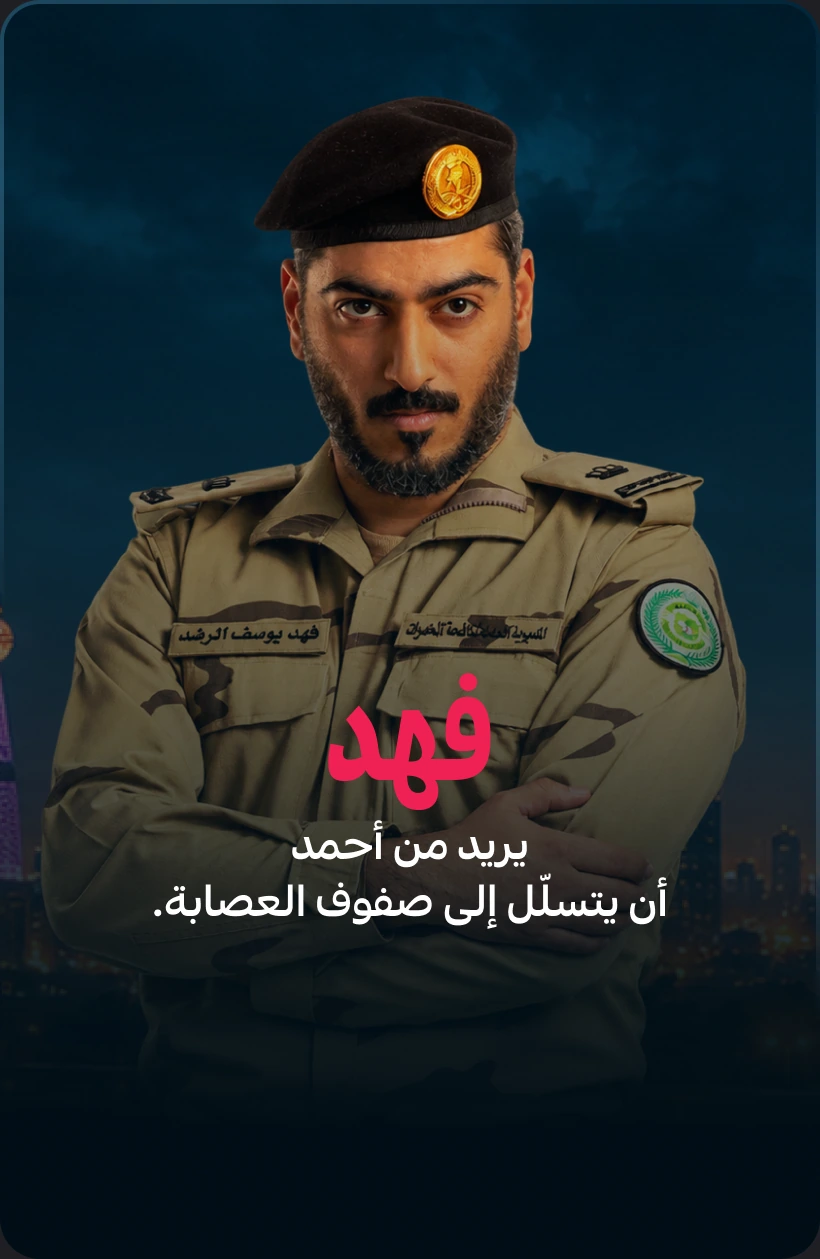
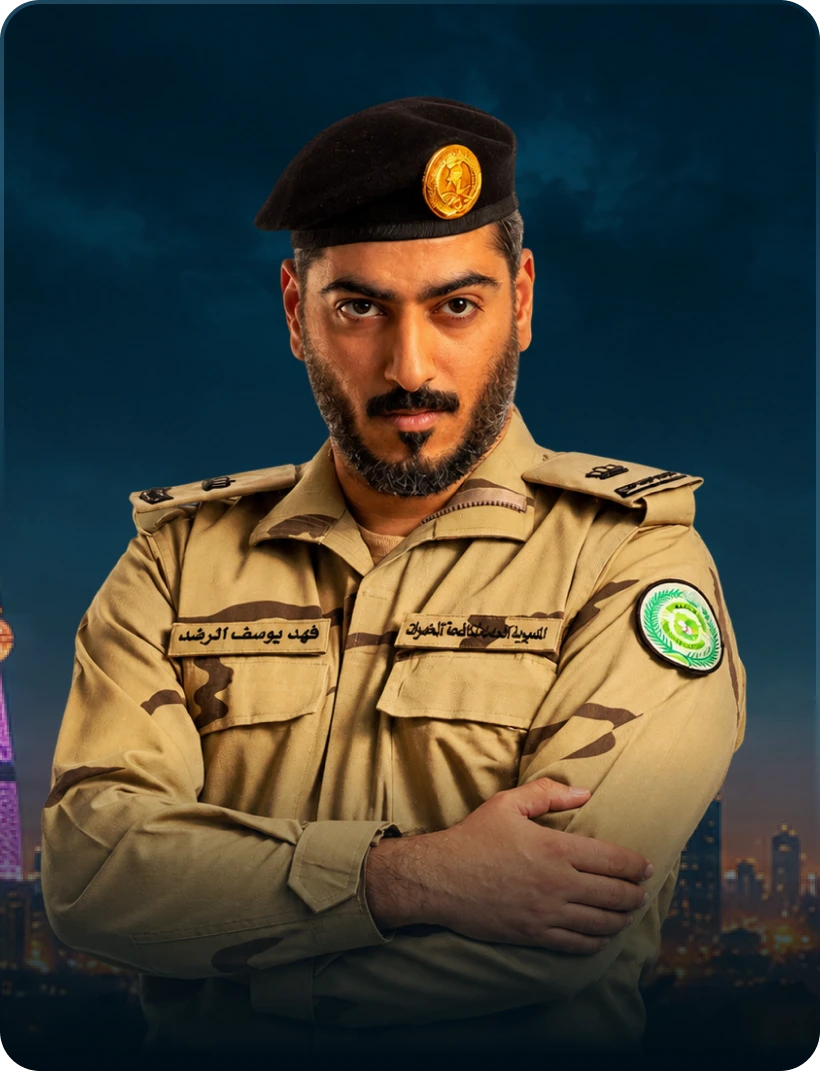
Replace Winback cards with the shorter Figma set

diff --git a/Winback Landing/README.md b/Winback Landing/README.md
@@ -1,8 +1,8 @@
 # Winback Landing — SPARKCREATIVE-3681
 
-Media for the Yango Play Winback landing in English and Arabic.
+Media for the Habetein winback landing in English and Arabic.
 
-- `images/hero-en-desktop.webp` and `images/hero-ar-desktop.webp` are the desktop Habetein compositions. `images/hero-mobile.webp` is the clean portrait composition shared by both languages.
-- `images/story-en-01.webp` through `story-en-08.webp` and `images/story-ar-01.webp` through `story-ar-08.webp` are the approved Figma storyboard cards, in display order.
-- `images/music-mobile.png` is the mobile playlist artwork. Catalog artwork and payment marks retain their original files.
-- `video/habetein-trailer.mp4` is the landscape trailer. `video/habetein-portrait-720x1560.mp4` is the single-image portrait edit with protected title cards.
+- `hero-en-figma-4167.webp` is the full English desktop poster and `hero-en-layout.webp` is its tablet crop. `hero-ar-desktop.webp` is the Arabic desktop poster. Both languages share `hero-mobile.webp`.
+- `story-en-01.webp` through `story-en-07.webp` and `story-ar-01.webp` through `story-ar-07.webp` are the 820 × 1071 Figma cards in display order. The landing adds the darker hover state and captions in CSS.
+- `music-mobile.png`, `catalog-top10.png` and the selection images are used by the landing catalog and music section.
+- `habetein-trailer.mp4` is the landscape trailer. `habetein-portrait-720x1560.mp4` is the portrait trailer.
